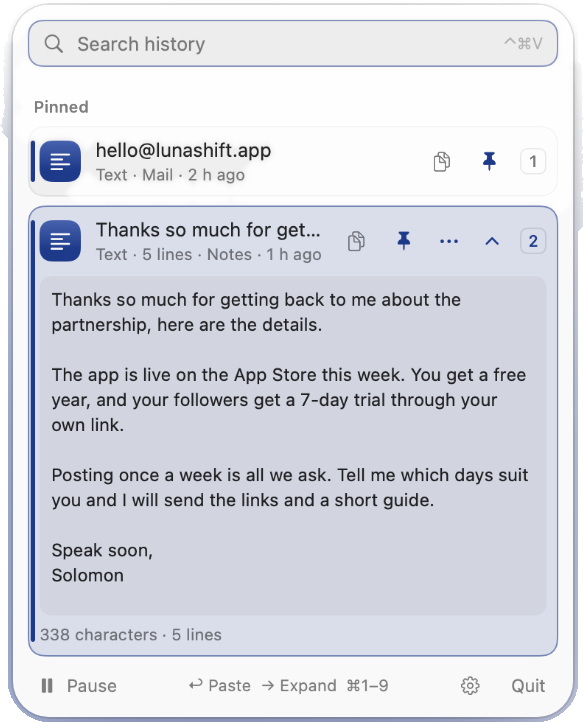
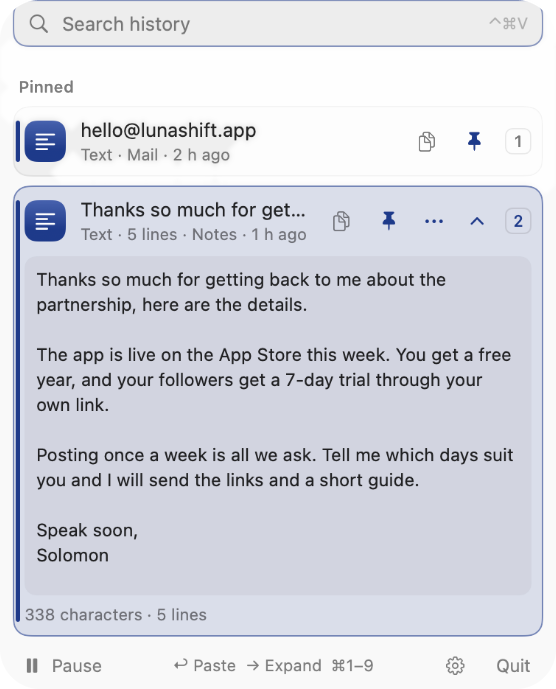
Site: grey copy boxes, remove welcome sections, clean Memo previews, per-app colour See buttons

Changed region(s): [[0.0, 0.0, 1.0, 1.0], [0.9173, 0.1829, 0.9478, 0.2134]]

diff --git a/assets/site.css b/assets/site.css
@@ -84,12 +84,12 @@ a:not(.btn):not(.dlmac):not(.cardlink):hover { text-underline-offset: 4px; }
 .install .card .dl:hover { transform: translateY(-2px); box-shadow: 0 16px 28px -14px rgba(0,0,0,.5); }
 .install .card .dl:active { transform: scale(.98); }
 .install .card .or { margin: 0 0 8px; font-size: 13.5px; color: var(--ink-3); }
-.code { position: relative; margin: 0 0 20px; border-radius: 14px; background: #1f1d1a; color: #f3ede3; box-shadow: inset 0 0 0 1px rgba(255,255,255,.07); }
+.code { position: relative; margin: 0 0 20px; border-radius: 14px; background: color-mix(in srgb, var(--ink, #1d1d1f) 7%, var(--surface, #fff)); color: var(--ink, #1d1d1f); box-shadow: inset 0 0 0 1px color-mix(in srgb, var(--ink, #1d1d1f) 9%, transparent); }
 .code code { display: block; padding: 16px 84px 16px 16px; font: 500 13px/1.55 ui-monospace, "SF Mono", Menlo, Consolas, monospace; word-break: break-all; user-select: all; }
-.code .copy { position: absolute; top: 10px; right: 10px; min-height: 30px; padding: 0 12px; border: 1px solid rgba(255,255,255,.16); border-radius: 9px; background: rgba(255,255,255,.08); color: #f3ede3; font: 600 12.5px/1 inherit; cursor: pointer; transition: background .2s, transform .15s; }
-.code .copy:hover { background: rgba(255,255,255,.16); }
+.code .copy { position: absolute; top: 10px; right: 10px; min-height: 30px; padding: 0 12px; border: 1px solid color-mix(in srgb, var(--ink, #1d1d1f) 16%, transparent); border-radius: 9px; background: color-mix(in srgb, var(--ink, #1d1d1f) 7%, var(--surface, #fff)); color: var(--ink, #1d1d1f); font: 600 12.5px/1 inherit; cursor: pointer; transition: background .2s, transform .15s; }
+.code .copy:hover { background: color-mix(in srgb, var(--ink, #1d1d1f) 14%, var(--surface, #fff)); }
 .code .copy:active { transform: scale(.95); }
-.code .copy.done { background: #3b8f5f; border-color: transparent; }
+.code .copy.done { background: #3b8f5f; border-color: transparent; color: #fff; }
 
 /* sticky header: solid, so page content never shows through it */
 header.top { background: var(--bg) !important; -webkit-backdrop-filter: none !important; backdrop-filter: none !important; border-bottom: 1px solid var(--line, rgba(0,0,0,.08)) !important; z-index: 50 !important; }

diff --git a/ludus/index.html b/ludus/index.html
@@ -276,7 +276,7 @@
     </a>
     <nav aria-label="Sections">
       <ul>
-        <li class="opt"><a href="#new">Welcome</a></li>
+        <li class="opt"><a href="#new">Details</a></li>
         <li class="opt"><a href="#games">Games</a></li>
         <li><a href="#install">Install</a></li>
         <li class="opt"><a href="#faq">FAQ</a></li>
@@ -438,23 +438,8 @@
 
   <section id="new">
     <div class="wrap">
-      <p class="kicker reveal">First launch</p>
-      <h2 class="reveal">A calm way in</h2>
-      <p class="intro reveal">A short welcome, a Geo Guess map that works like the real thing, and a few small things that make Ludus feel finished.</p>
-      <div class="gallery welcome">
-        <figure class="reveal">
-          <picture><source media="(prefers-color-scheme: dark)" srcset="intro/ludus-mac-1-dark.png"><img src="intro/ludus-mac-1-light.png" width="380" height="620" loading="lazy" alt="The welcome screen: Welcome to Ludus, 43 little games, one click away"></picture>
-          <figcaption>A short welcome, three pages</figcaption>
-        </figure>
-        <figure class="reveal">
-          <picture><source media="(prefers-color-scheme: dark)" srcset="intro/ludus-mac-2-dark.png"><img src="intro/ludus-mac-2-light.png" width="380" height="620" loading="lazy" alt="Welcome page two: It lives in your menu bar"></picture>
-          <figcaption>It lives in your menu bar</figcaption>
-        </figure>
-        <figure class="reveal">
-          <picture><source media="(prefers-color-scheme: dark)" srcset="intro/ludus-mac-3-dark.png"><img src="intro/ludus-mac-3-light.png" width="380" height="620" loading="lazy" alt="Welcome page three: Ready to play"></picture>
-          <figcaption>Then you are ready</figcaption>
-        </figure>
-      </div>
+      <p class="kicker reveal">Details</p>
+      <h2 class="reveal">Small things that make it feel finished</h2>
       <div class="points four">
         <div class="point reveal">
           <svg viewBox="0 0 24 24" aria-hidden="true"><path fill="none" stroke="currentColor" stroke-width="1.8" stroke-linecap="round" stroke-linejoin="round" d="M12 3v9M7 6.5a7 7 0 1 0 10 0"/></svg>

diff --git a/memo/index.html b/memo/index.html
@@ -241,7 +241,6 @@
       <ul>
         <li class="opt"><a href="#features">Features</a></li>
         <li class="opt"><a href="#keys">Keys</a></li>
-        <li class="opt"><a href="#welcome">Welcome</a></li>
         <li><a href="#install">Install</a></li>
         <li class="opt"><a href="#faq">FAQ</a></li>
       </ul>
@@ -327,27 +326,6 @@
     </div>
   </section>
 
-  <section id="welcome">
-    <div class="wrap">
-      <p class="kicker reveal">First launch</p>
-      <h2 class="reveal">A calm first minute</h2>
-      <p class="intro reveal">A short welcome with a frosted glass panel. It shows the shortcut, asks once for the permission it needs to paste for you, and ends with three tips. Each page plays its animation once.</p>
-      <div class="gallery welcome">
-        <figure class="reveal">
-          <img src="intro/memo-welcome-1.png" width="432" height="476" loading="lazy" alt="Memo welcome window, page 1: Everything you copy, one shortcut away">
-          <figcaption>Everything you copy, one shortcut away</figcaption>
-        </figure>
-        <figure class="reveal">
-          <img src="intro/memo-welcome-2.png" width="432" height="476" loading="lazy" alt="Memo welcome window, page 2: Paste straight into apps: allow it once">
-          <figcaption>Paste straight into apps: allow it once</figcaption>
-        </figure>
-        <figure class="reveal">
-          <img src="intro/memo-welcome-3.png" width="432" height="476" loading="lazy" alt="Memo welcome window, page 3: You're all set">
-          <figcaption>You're all set</figcaption>
-        </figure>
-      </div>
-    </div>
-  </section>
 
   <section id="screens">
     <div class="wrap">

diff --git a/awayke/index.html b/awayke/index.html
@@ -231,7 +231,6 @@
     <nav aria-label="Sections">
       <ul>
         <li class="opt"><a href="#features">Features</a></li>
-        <li class="opt"><a href="#welcome">Welcome</a></li>
         <li><a href="#install">Install</a></li>
         <li class="opt"><a href="#faq">FAQ</a></li>
       </ul>
@@ -301,27 +300,6 @@
     </div>
   </section>
 
-  <section id="welcome">
-    <div class="wrap">
-      <p class="kicker reveal">First launch</p>
-      <h2 class="reveal">A calm first minute</h2>
-      <p class="intro reveal">A short welcome with a frosted glass panel: what Awayke does, the one permission it needs for lid-closed mode, and where to find it. Each page plays its animation once.</p>
-      <div class="gallery welcome">
-        <figure class="reveal">
-          <img src="intro/awayke-welcome-1.png" width="432" height="476" loading="lazy" alt="Awayke welcome window, page 1: Keeps your Mac awake, even with the lid closed">
-          <figcaption>Keeps your Mac awake, even with the lid closed</figcaption>
-        </figure>
-        <figure class="reveal">
-          <img src="intro/awayke-welcome-2.png" width="432" height="476" loading="lazy" alt="Awayke welcome window, page 2: One permission, once">
-          <figcaption>One permission, once</figcaption>
-        </figure>
-        <figure class="reveal">
-          <img src="intro/awayke-welcome-3.png" width="432" height="476" loading="lazy" alt="Awayke welcome window, page 3: It lives in your menu bar">
-          <figcaption>It lives in your menu bar</figcaption>
-        </figure>
-      </div>
-    </div>
-  </section>
 
   <section id="screens">
     <div class="wrap">

diff --git a/nox/index.html b/nox/index.html
@@ -230,7 +230,6 @@
     <nav aria-label="Sections">
       <ul>
         <li class="opt"><a href="#features">Features</a></li>
-        <li class="opt"><a href="#welcome">Welcome</a></li>
         <li><a href="#install">Install</a></li>
         <li class="opt"><a href="#faq">FAQ</a></li>
       </ul>
@@ -331,27 +330,6 @@
     </div>
   </section>
 
-  <section id="welcome">
-    <div class="wrap">
-      <p class="kicker reveal">First launch</p>
-      <h2 class="reveal">A calm first minute</h2>
-      <p class="intro reveal">Three short pages: what Nox does, the permissions it asks for, and three tips. A frosted glass panel, and each page plays its animation once.</p>
-      <div class="gallery welcome">
-        <figure class="reveal">
-          <img src="intro/nox-welcome-1.png" width="432" height="496" loading="lazy" alt="Nox welcome window, page 1: What Nox does">
-          <figcaption>What Nox does</figcaption>
-        </figure>
-        <figure class="reveal">
-          <img src="intro/nox-welcome-2.png" width="432" height="496" loading="lazy" alt="Nox welcome window, page 2: Three quick steps, each with its own Allow window">
-          <figcaption>Three quick steps, each with its own Allow window</figcaption>
-        </figure>
-        <figure class="reveal">
-          <img src="intro/nox-welcome-3.png" width="432" height="496" loading="lazy" alt="Nox welcome window, page 3: You're all set, with three tips">
-          <figcaption>You're all set, with three tips</figcaption>
-        </figure>
-      </div>
-    </div>
-  </section>
 
   <section id="screens">
     <div class="wrap">

diff --git a/index.html b/index.html
@@ -24,7 +24,7 @@ h1{font-size:clamp(34px,6vw,56px);line-height:1.05;letter-spacing:-.03em;margin:
 .card .ico{display:block;width:64px;height:64px;flex:none}.card .ico picture,.card .ico img{display:block;width:64px;height:64px;border-radius:15px}
 .card h2{margin:4px 0 0;font-size:24px;letter-spacing:-.02em}
 .card p{margin:0;color:var(--ink-2)}
-.go{display:flex;justify-content:space-between;align-items:center;min-height:48px;padding:0 18px;margin-top:auto;border-radius:13px;font-weight:650;background:var(--ink);color:var(--bg);transition:transform .2s cubic-bezier(.2,.8,.2,1)}
+.go{display:flex;justify-content:space-between;align-items:center;min-height:48px;padding:0 18px;margin-top:auto;border-radius:13px;font-weight:650;background:var(--tint,var(--ink));color:#fff;transition:transform .2s cubic-bezier(.2,.8,.2,1)}
 .card .cardlink:active .go{transform:scale(.97)}
 .card:hover .go span{display:inline-block;transform:translateX(4px)}
 .go span{transition:transform .3s}
